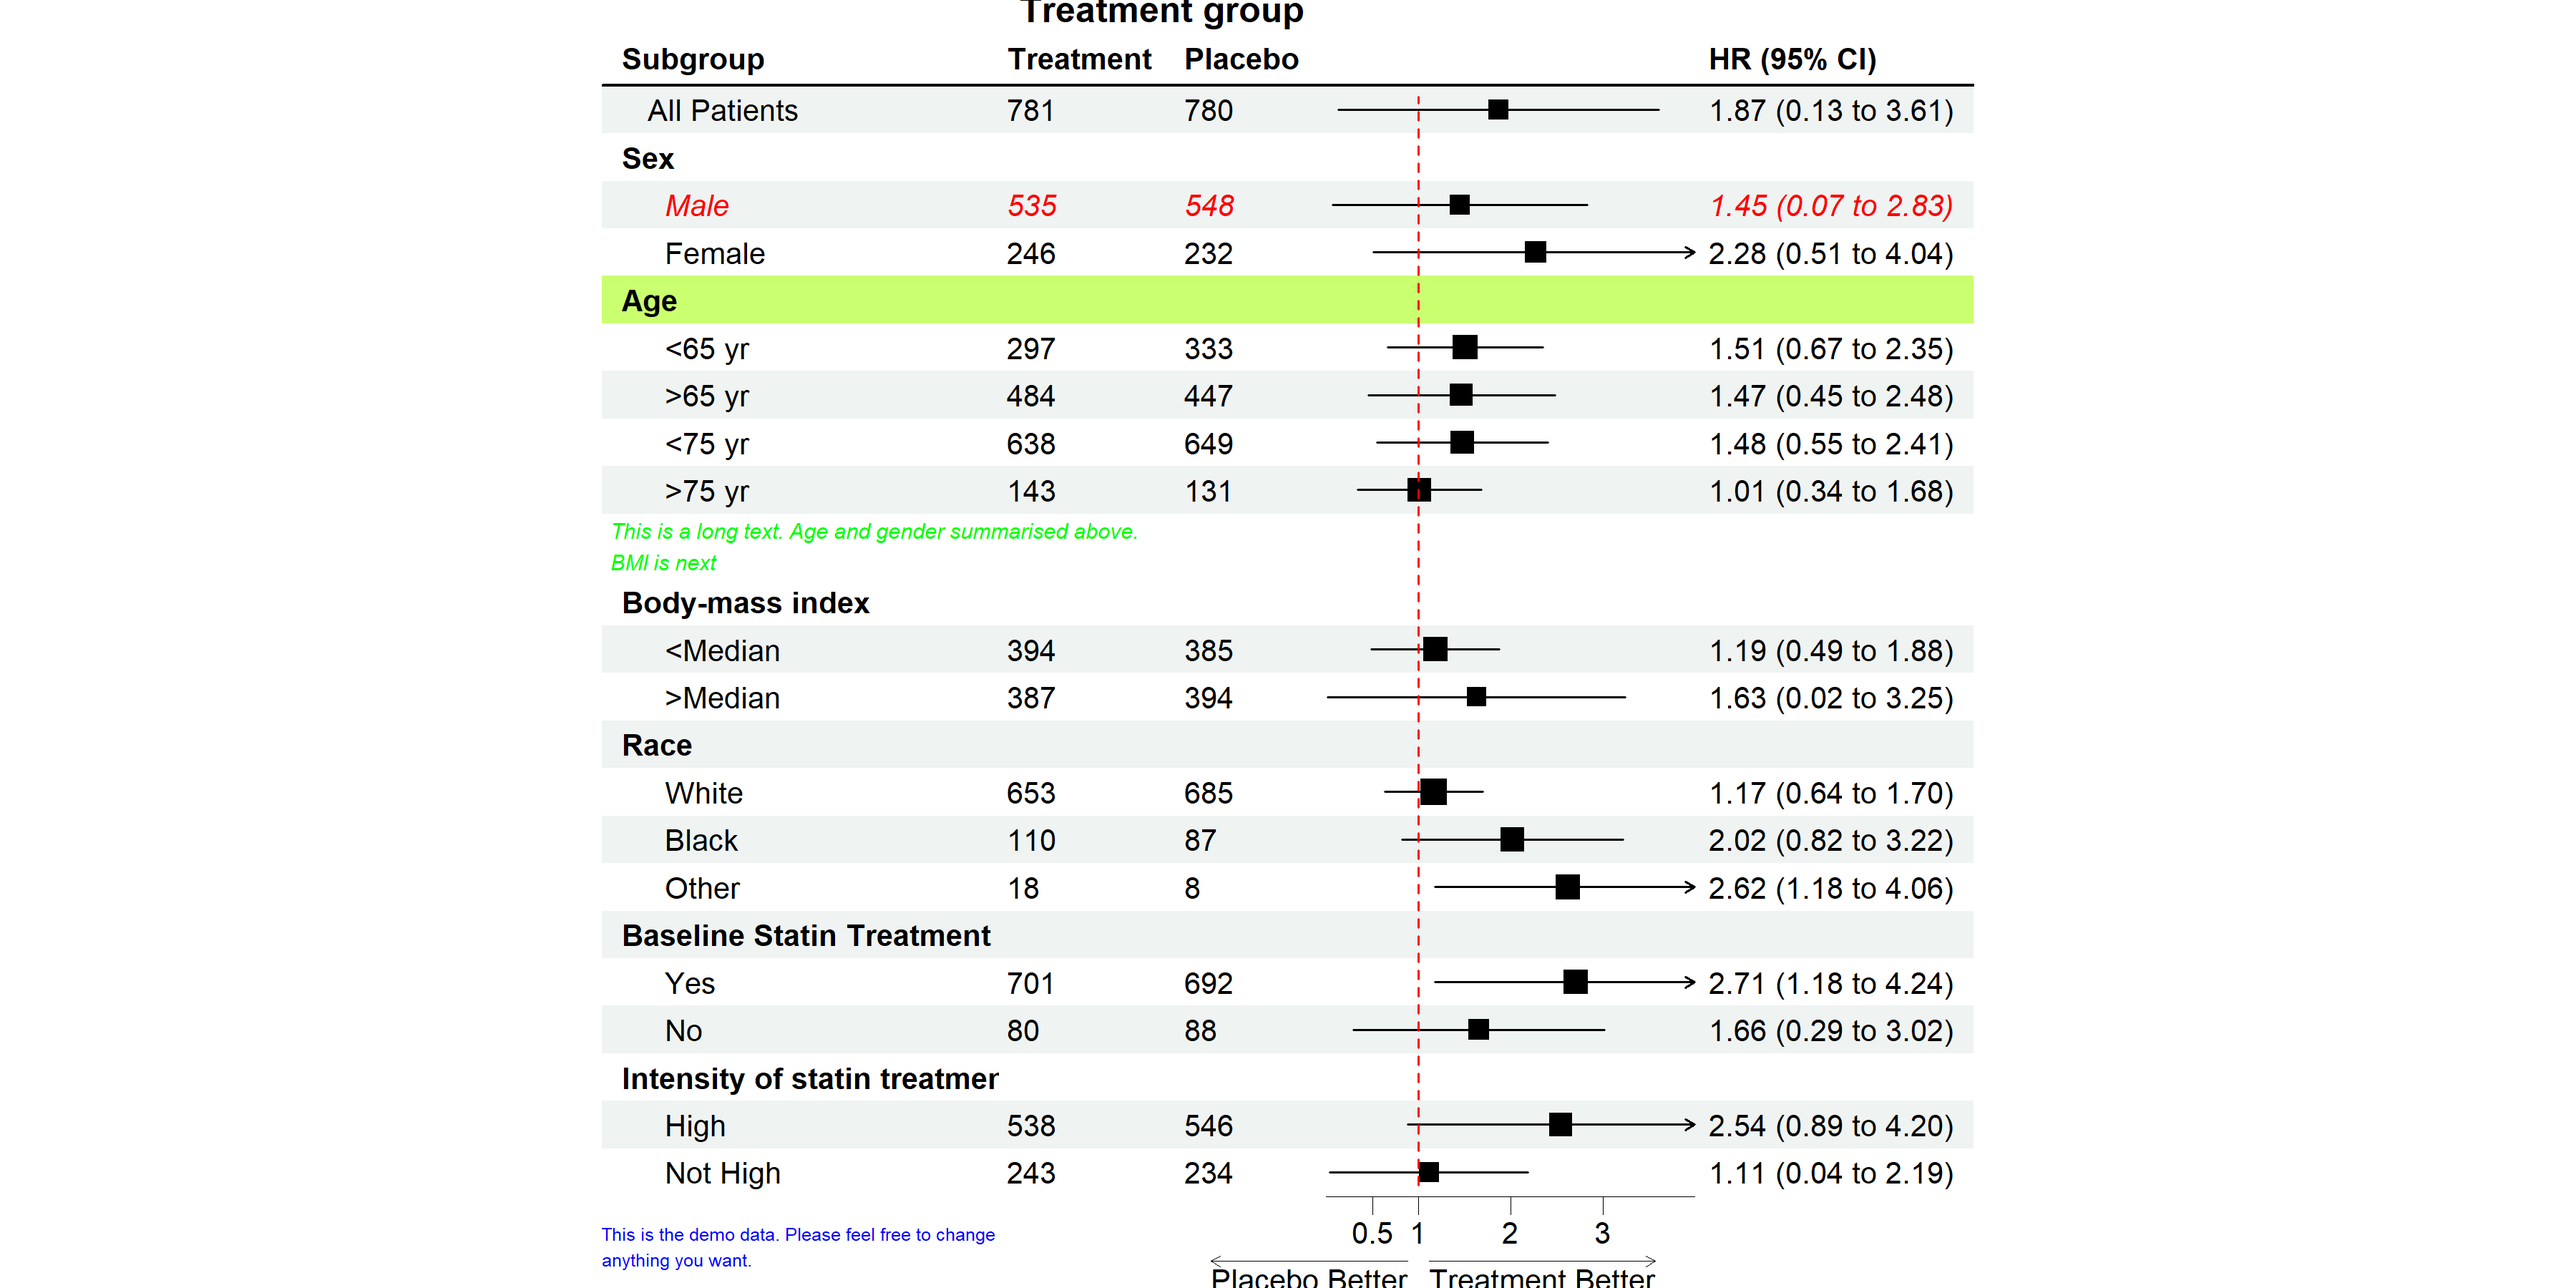
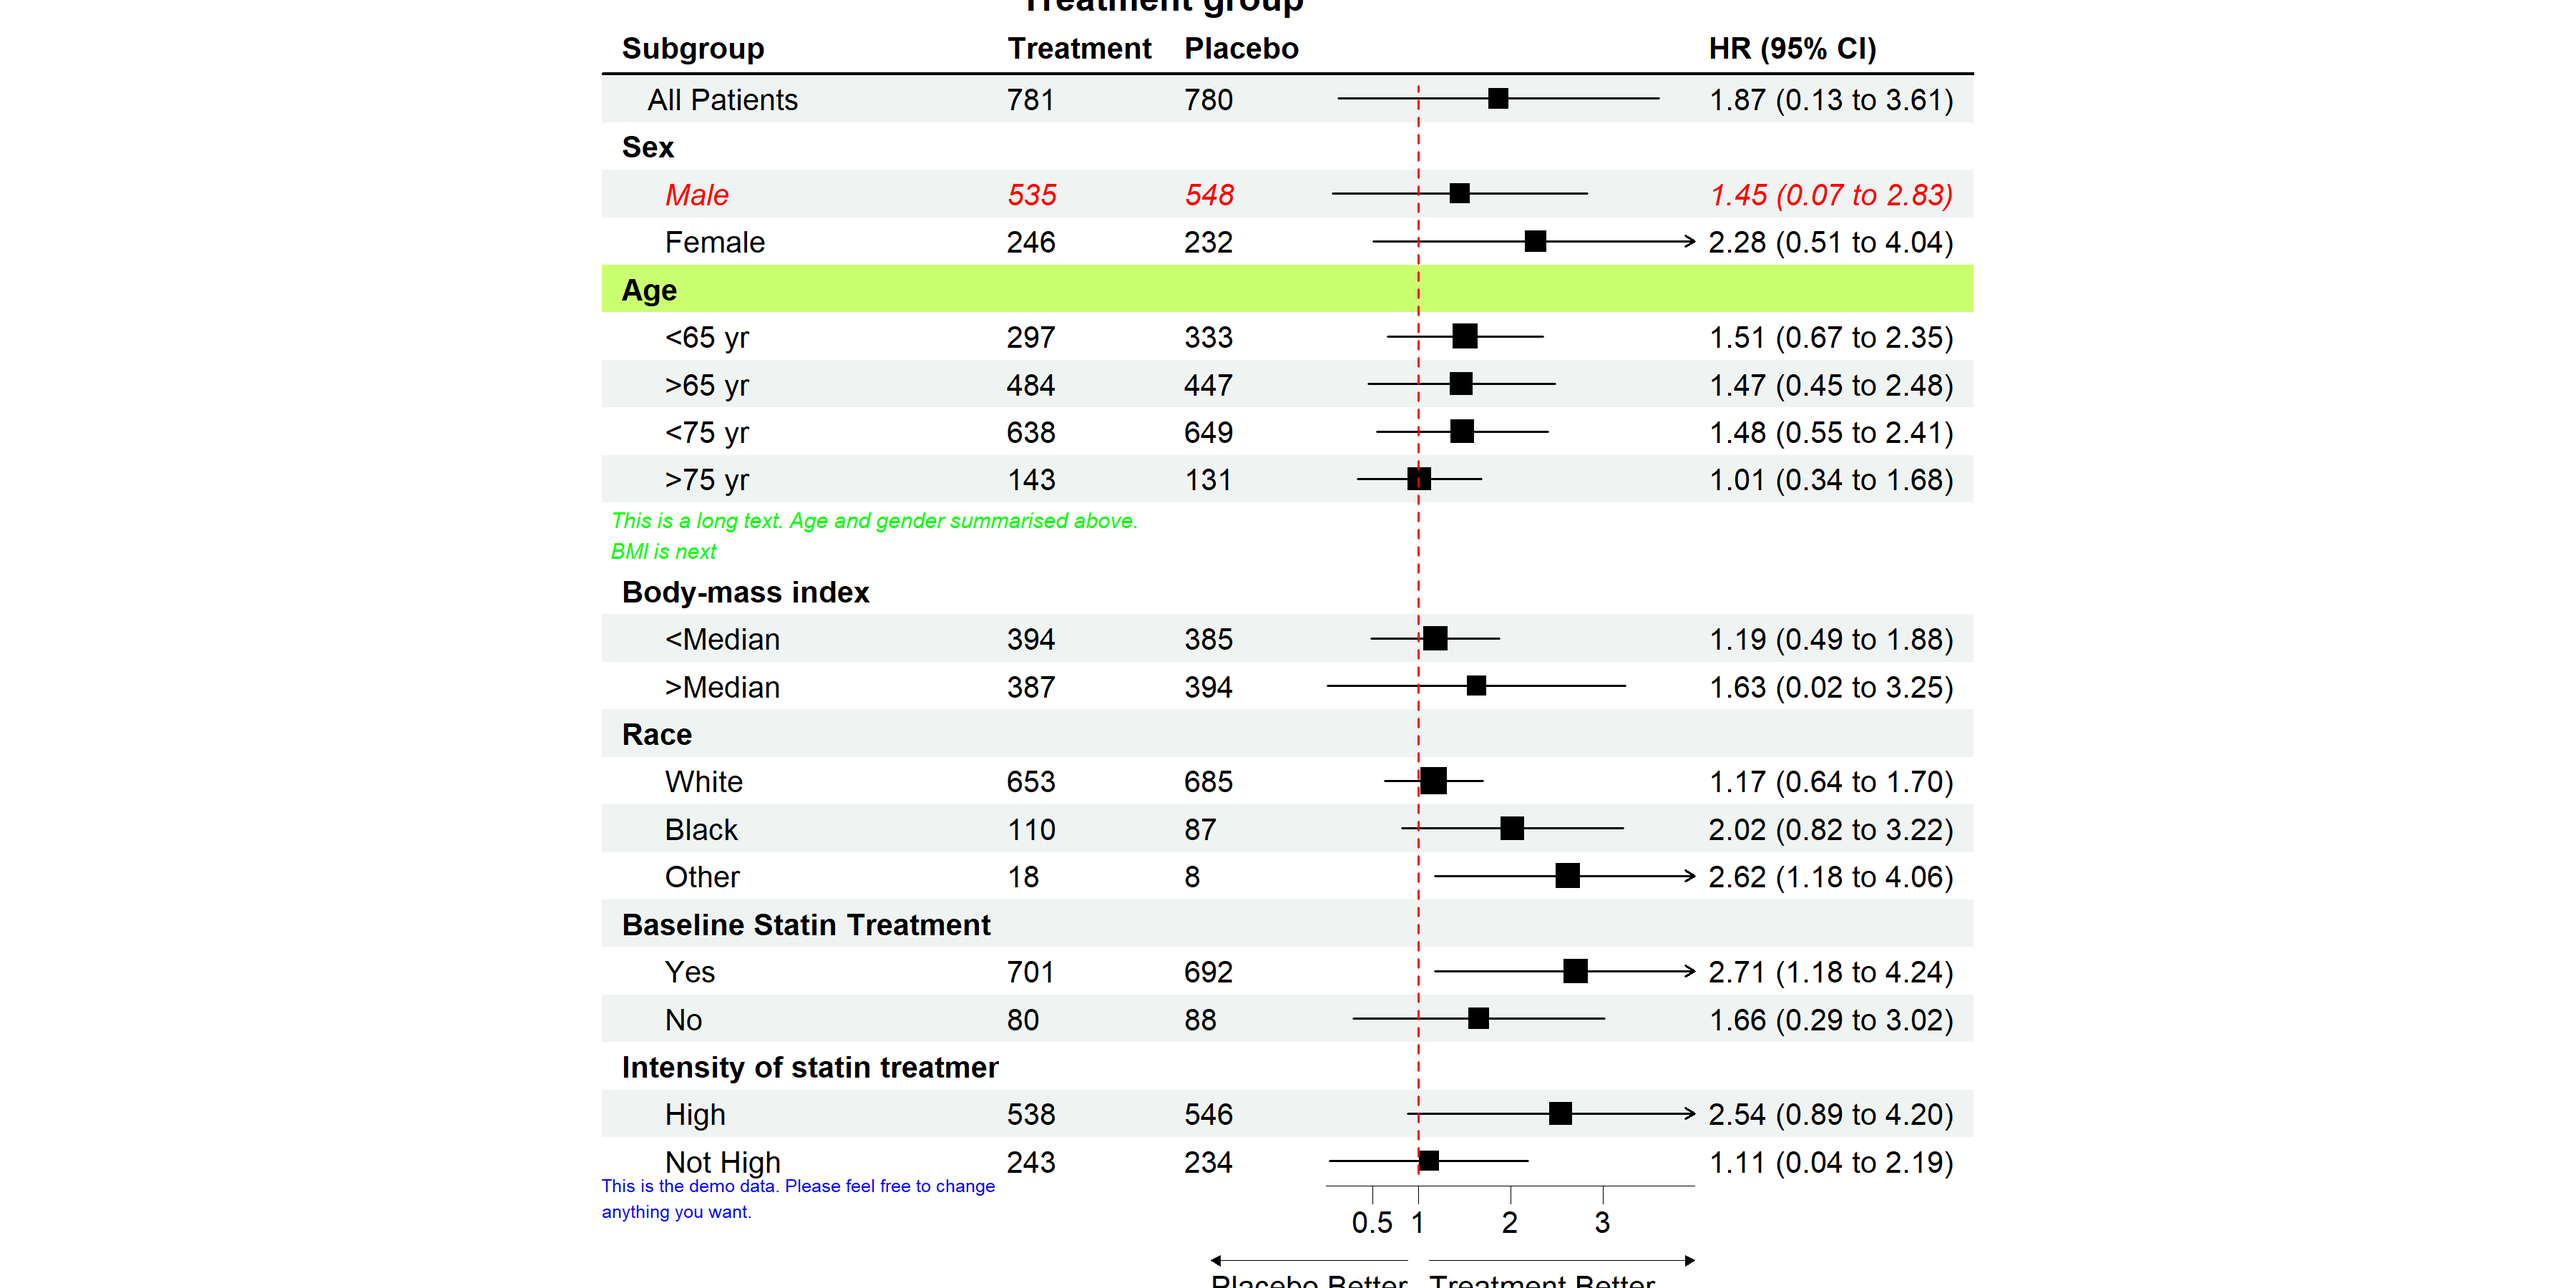
Up grade version

diff --git a/README.md b/README.md
@@ -71,6 +71,7 @@ dt$`HR (95% CI)` <- ifelse(is.na(dt$se), "",
 # Define theme
 tm <- forest_theme(base_size = 10,
                    refline_col = "red",
+                   arrow_type = "closed",
                    footnote_col = "blue")
 
 p <- forest(dt[,c(1:3, 20:21)],
@@ -159,6 +160,7 @@ as group 1, `est_gp3` and `est_gp4` group 2.
 This is an example of multiple CI columns and groups:
 
 ``` r
+
 # Add blank column for the second CI column
 dt$`   ` <- paste(rep(" ", 20), collapse = " ")
 
